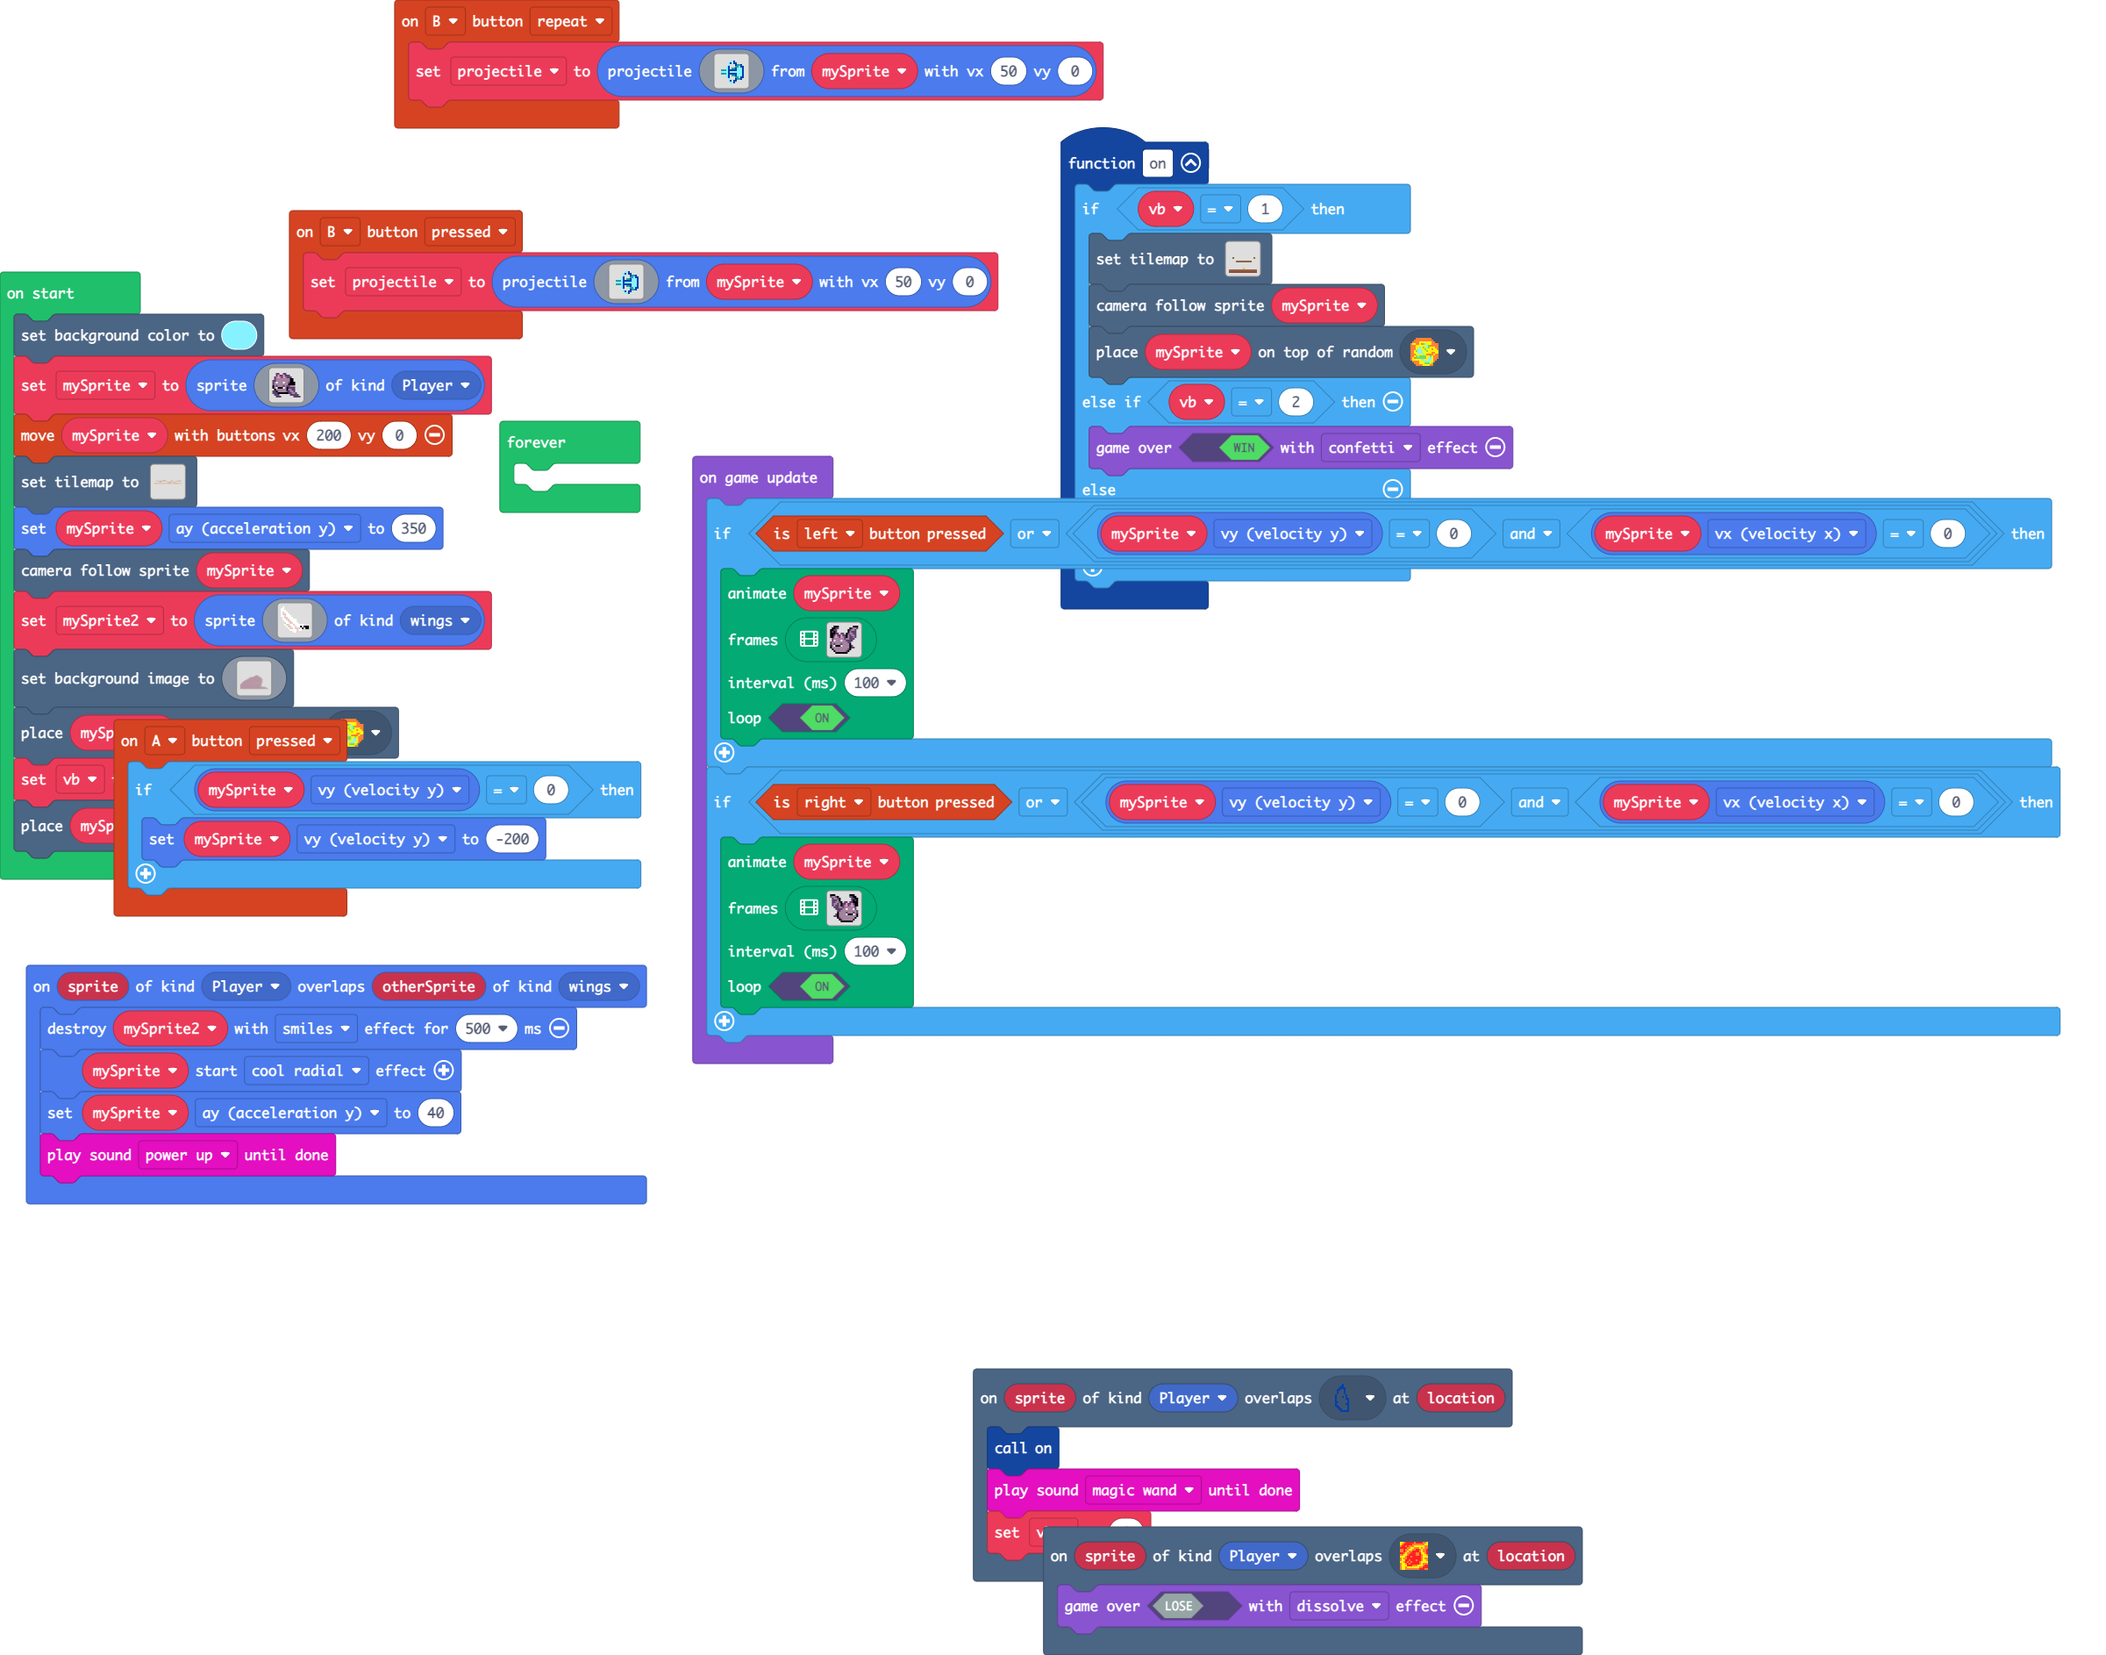
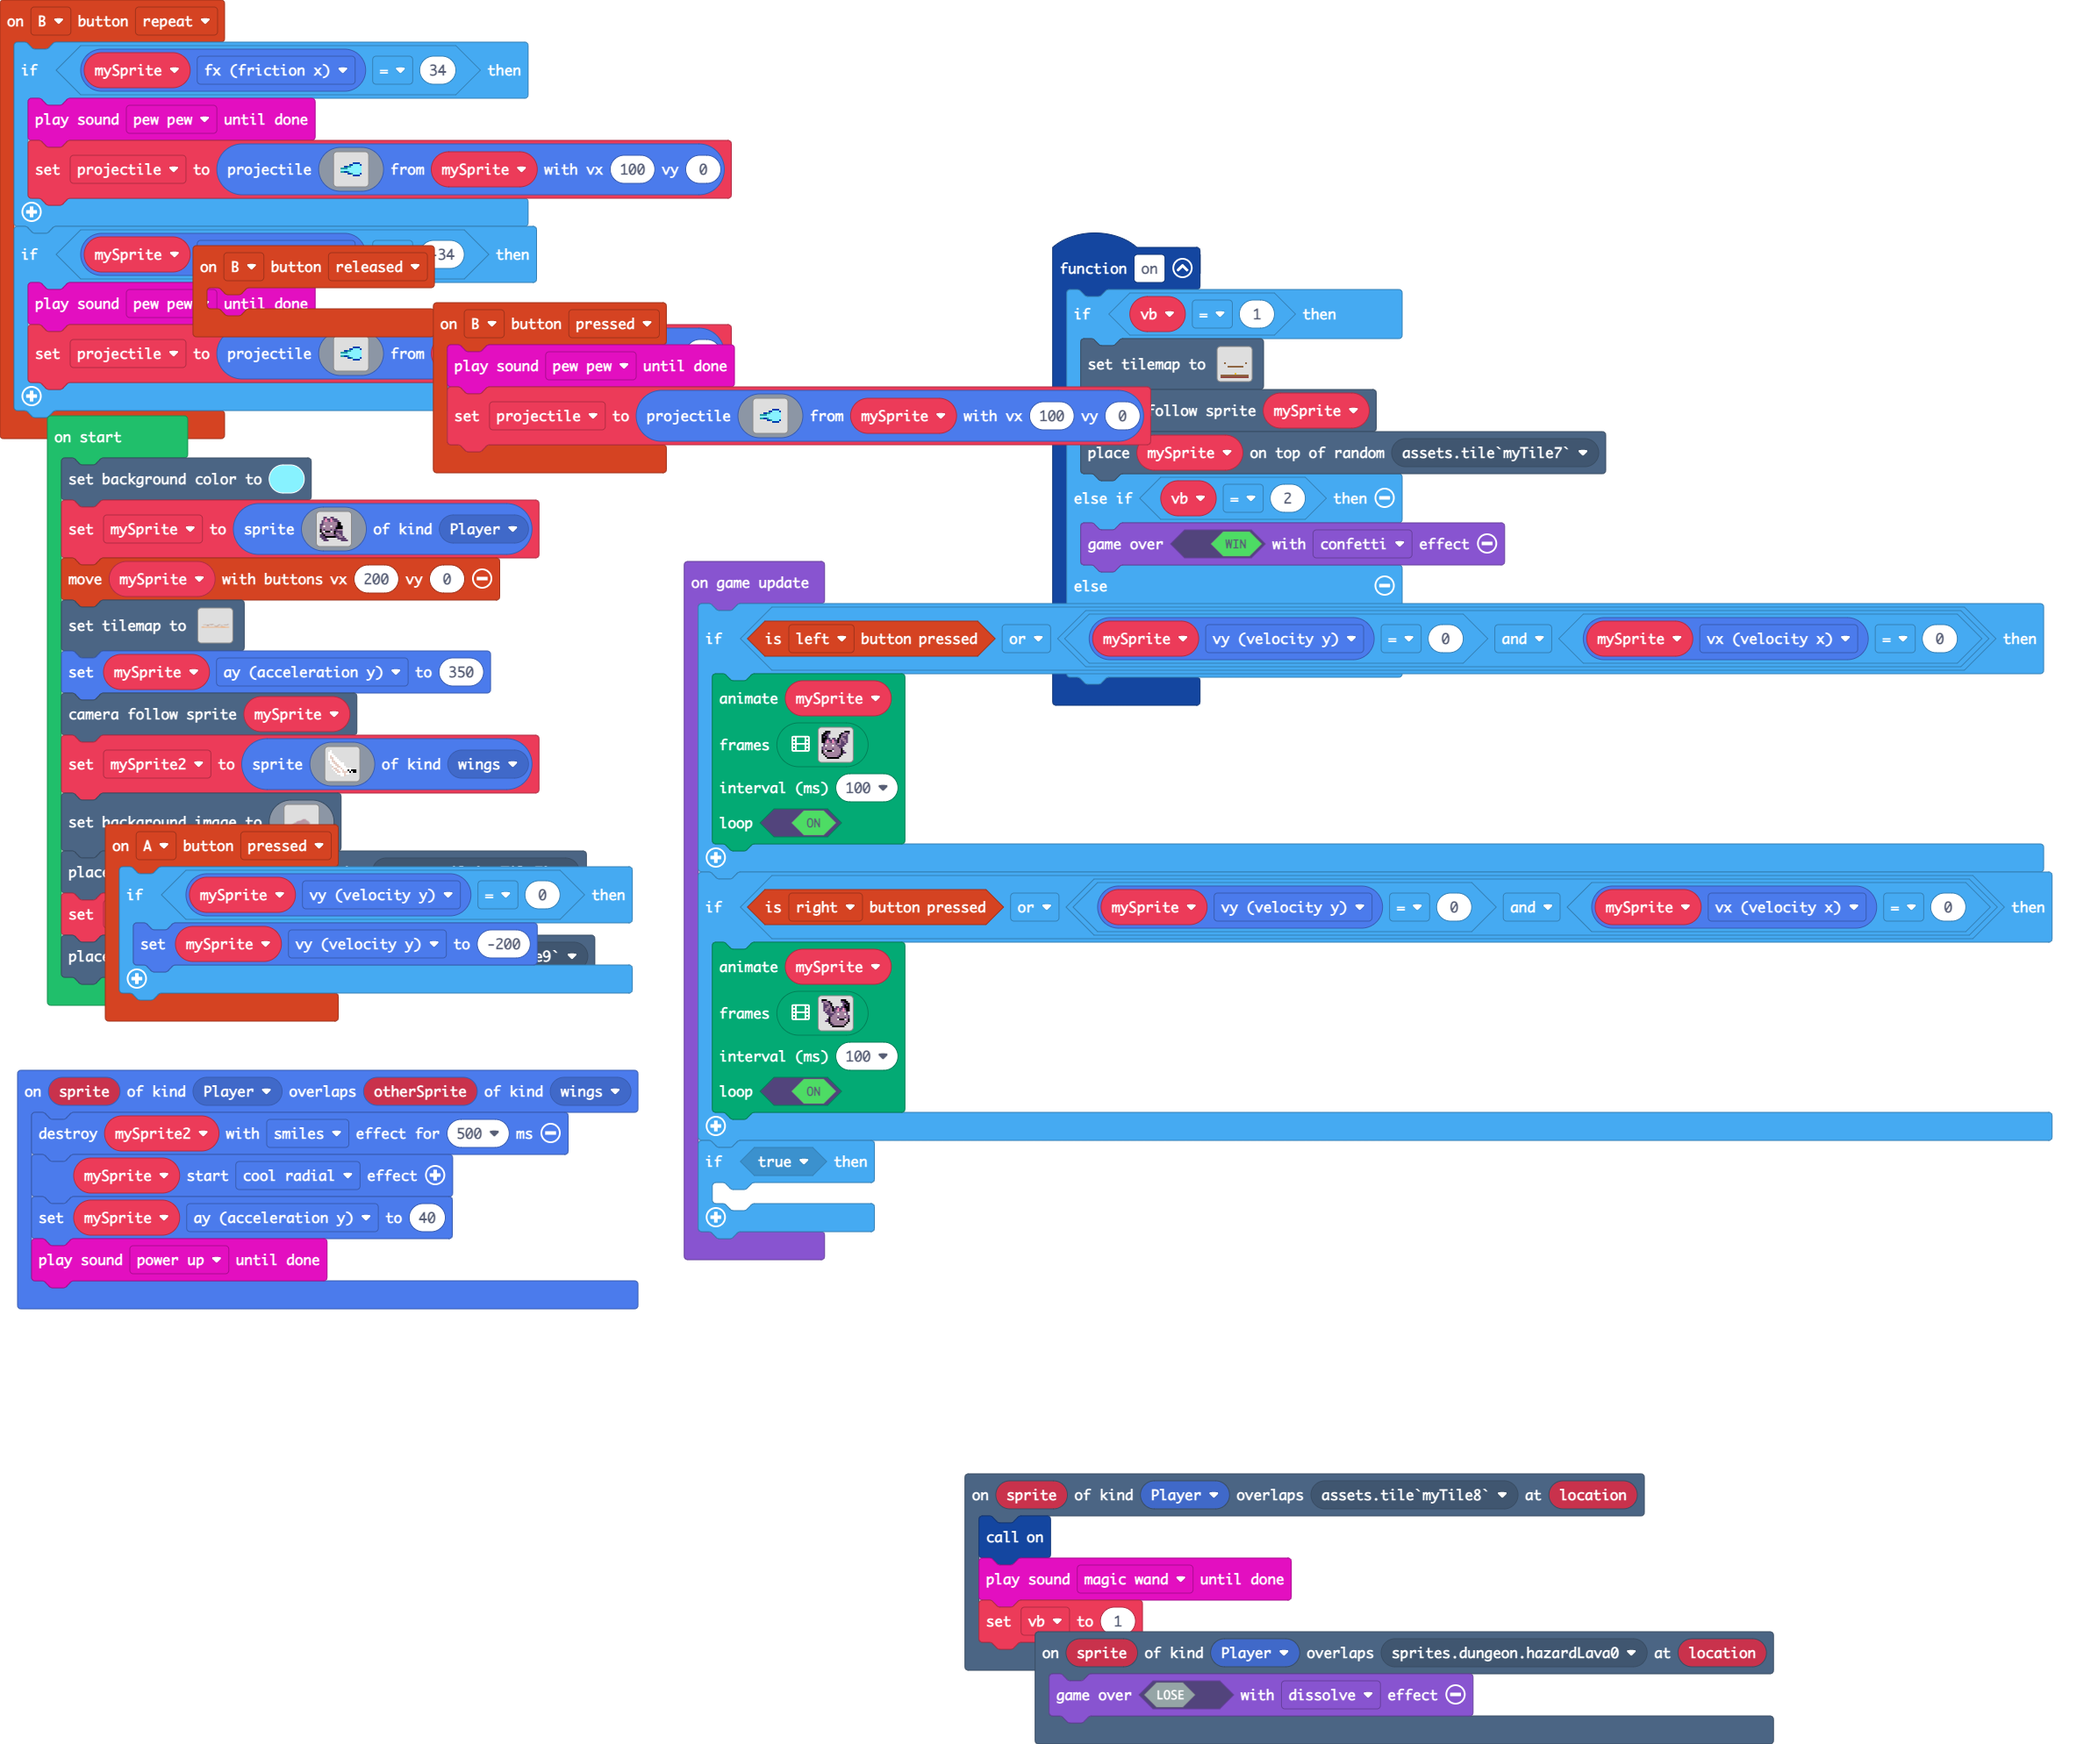
Update main.blocks, main.ts

diff --git a/main.ts b/main.ts
@@ -2,24 +2,25 @@ namespace SpriteKind {
     export const wings = SpriteKind.create()
 }
 controller.B.onEvent(ControllerButtonEvent.Pressed, function () {
+    music.pewPew.playUntilDone()
     projectile = sprites.createProjectileFromSprite(img`
         . . . . . . . . . . . . . . . . 
         . . . . . . . . . . . . . . . . 
-        . . . . . . . 9 9 8 . . . . . . 
-        . . . . . . 9 8 . 8 8 . . . . . 
-        . . . . . . 9 . . . 8 6 6 8 . . 
-        . . . . . 9 8 . . . 6 6 9 8 8 . 
-        . . . . . 9 8 . 6 6 8 9 9 9 8 . 
-        . . 6 6 6 9 8 8 8 8 8 9 9 9 8 . 
-        . . 9 9 9 9 8 9 9 9 9 9 9 9 8 . 
-        . . 6 6 6 9 8 8 8 8 8 9 9 9 8 . 
-        . . . . . 9 8 . 6 6 8 9 9 9 8 . 
-        . . . . . 9 8 . . . 6 6 9 8 8 . 
-        . . . . . . 9 . . . 8 6 6 8 . . 
-        . . . . . . 9 8 . 8 8 . . . . . 
-        . . . . . . . 9 9 8 . . . . . . 
         . . . . . . . . . . . . . . . . 
-        `, mySprite, 50, 0)
+        . . . . . . . . . . . . . . . . 
+        . . . . . . . . . 8 8 8 8 . . . 
+        . . . . . . . 8 8 9 9 9 9 8 . . 
+        . . . . 8 8 6 6 9 9 9 9 9 9 . . 
+        . . 6 6 6 6 9 9 9 9 9 9 9 9 . . 
+        . . 9 9 9 9 9 9 9 9 9 9 9 9 . . 
+        . . 6 6 8 8 6 9 9 9 9 9 9 9 . . 
+        . . . . . . 8 8 6 9 9 9 9 8 . . 
+        . . . . . . . . . 8 8 8 8 . . . 
+        . . . . . . . . . . . . . . . . 
+        . . . . . . . . . . . . . . . . 
+        . . . . . . . . . . . . . . . . 
+        . . . . . . . . . . . . . . . . 
+        `, mySprite, 100, 0)
 })
 controller.A.onEvent(ControllerButtonEvent.Pressed, function () {
     if (mySprite.vy == 0) {
@@ -36,24 +37,48 @@ sprites.onOverlap(SpriteKind.Player, SpriteKind.wings, function (sprite, otherSp
     music.powerUp.playUntilDone()
 })
 controller.B.onEvent(ControllerButtonEvent.Repeated, function () {
-    projectile = sprites.createProjectileFromSprite(img`
-        . . . . . . . . . . . . . . . . 
-        . . . . . . . . . . . . . . . . 
-        . . . . . . . 9 9 8 . . . . . . 
-        . . . . . . 9 8 . 8 8 . . . . . 
-        . . . . . . 9 . . . 8 6 6 8 . . 
-        . . . . . 9 8 . . . 6 6 9 8 8 . 
-        . . . . . 9 8 . 6 6 8 9 9 9 8 . 
-        . . 6 6 6 9 8 8 8 8 8 9 9 9 8 . 
-        . . 9 9 9 9 8 9 9 9 9 9 9 9 8 . 
-        . . 6 6 6 9 8 8 8 8 8 9 9 9 8 . 
-        . . . . . 9 8 . 6 6 8 9 9 9 8 . 
-        . . . . . 9 8 . . . 6 6 9 8 8 . 
-        . . . . . . 9 . . . 8 6 6 8 . . 
-        . . . . . . 9 8 . 8 8 . . . . . 
-        . . . . . . . 9 9 8 . . . . . . 
-        . . . . . . . . . . . . . . . . 
-        `, mySprite, 50, 0)
+    if (mySprite.fx == 34) {
+        music.pewPew.playUntilDone()
+        projectile = sprites.createProjectileFromSprite(img`
+            . . . . . . . . . . . . . . . . 
+            . . . . . . . . . . . . . . . . 
+            . . . . . . . . . . . . . . . . 
+            . . . . . . . . . . . . . . . . 
+            . . . . . . . . . 8 8 8 8 . . . 
+            . . . . . . . 8 8 9 9 9 9 8 . . 
+            . . . . 8 8 6 6 9 9 9 9 9 9 . . 
+            . . 6 6 6 6 9 9 9 9 9 9 9 9 . . 
+            . . 9 9 9 9 9 9 9 9 9 9 9 9 . . 
+            . . 6 6 8 8 6 9 9 9 9 9 9 9 . . 
+            . . . . . . 8 8 6 9 9 9 9 8 . . 
+            . . . . . . . . . 8 8 8 8 . . . 
+            . . . . . . . . . . . . . . . . 
+            . . . . . . . . . . . . . . . . 
+            . . . . . . . . . . . . . . . . 
+            . . . . . . . . . . . . . . . . 
+            `, mySprite, 100, 0)
+    }
+    if (mySprite.fx == -34) {
+        music.pewPew.playUntilDone()
+        projectile = sprites.createProjectileFromSprite(img`
+            . . . . . . . . . . . . . . . . 
+            . . . . . . . . . . . . . . . . 
+            . . . . . . . . . . . . . . . . 
+            . . . . . . . . . . . . . . . . 
+            . . . . . . . . . 8 8 8 8 . . . 
+            . . . . . . . 8 8 9 9 9 9 8 . . 
+            . . . . 8 8 6 6 9 9 9 9 9 9 . . 
+            . . 6 6 6 6 9 9 9 9 9 9 9 9 . . 
+            . . 9 9 9 9 9 9 9 9 9 9 9 9 . . 
+            . . 6 6 8 8 6 9 9 9 9 9 9 9 . . 
+            . . . . . . 8 8 6 9 9 9 9 8 . . 
+            . . . . . . . . . 8 8 8 8 . . . 
+            . . . . . . . . . . . . . . . . 
+            . . . . . . . . . . . . . . . . 
+            . . . . . . . . . . . . . . . . 
+            . . . . . . . . . . . . . . . . 
+            `, mySprite, 100, 0)
+    }
 })
 function on () {
     if (vb == 1) {
@@ -70,6 +95,9 @@ scene.onOverlapTile(SpriteKind.Player, assets.tile`myTile8`, function (sprite, l
     on()
     music.magicWand.playUntilDone()
     vb = 1
+})
+controller.B.onEvent(ControllerButtonEvent.Released, function () {
+	
 })
 let projectile: Sprite = null
 let vb = 0
@@ -377,7 +405,7 @@ game.onUpdate(function () {
         true
         )
     }
-})
-forever(function () {
-	
+    if (true) {
+    	
+    }
 })
